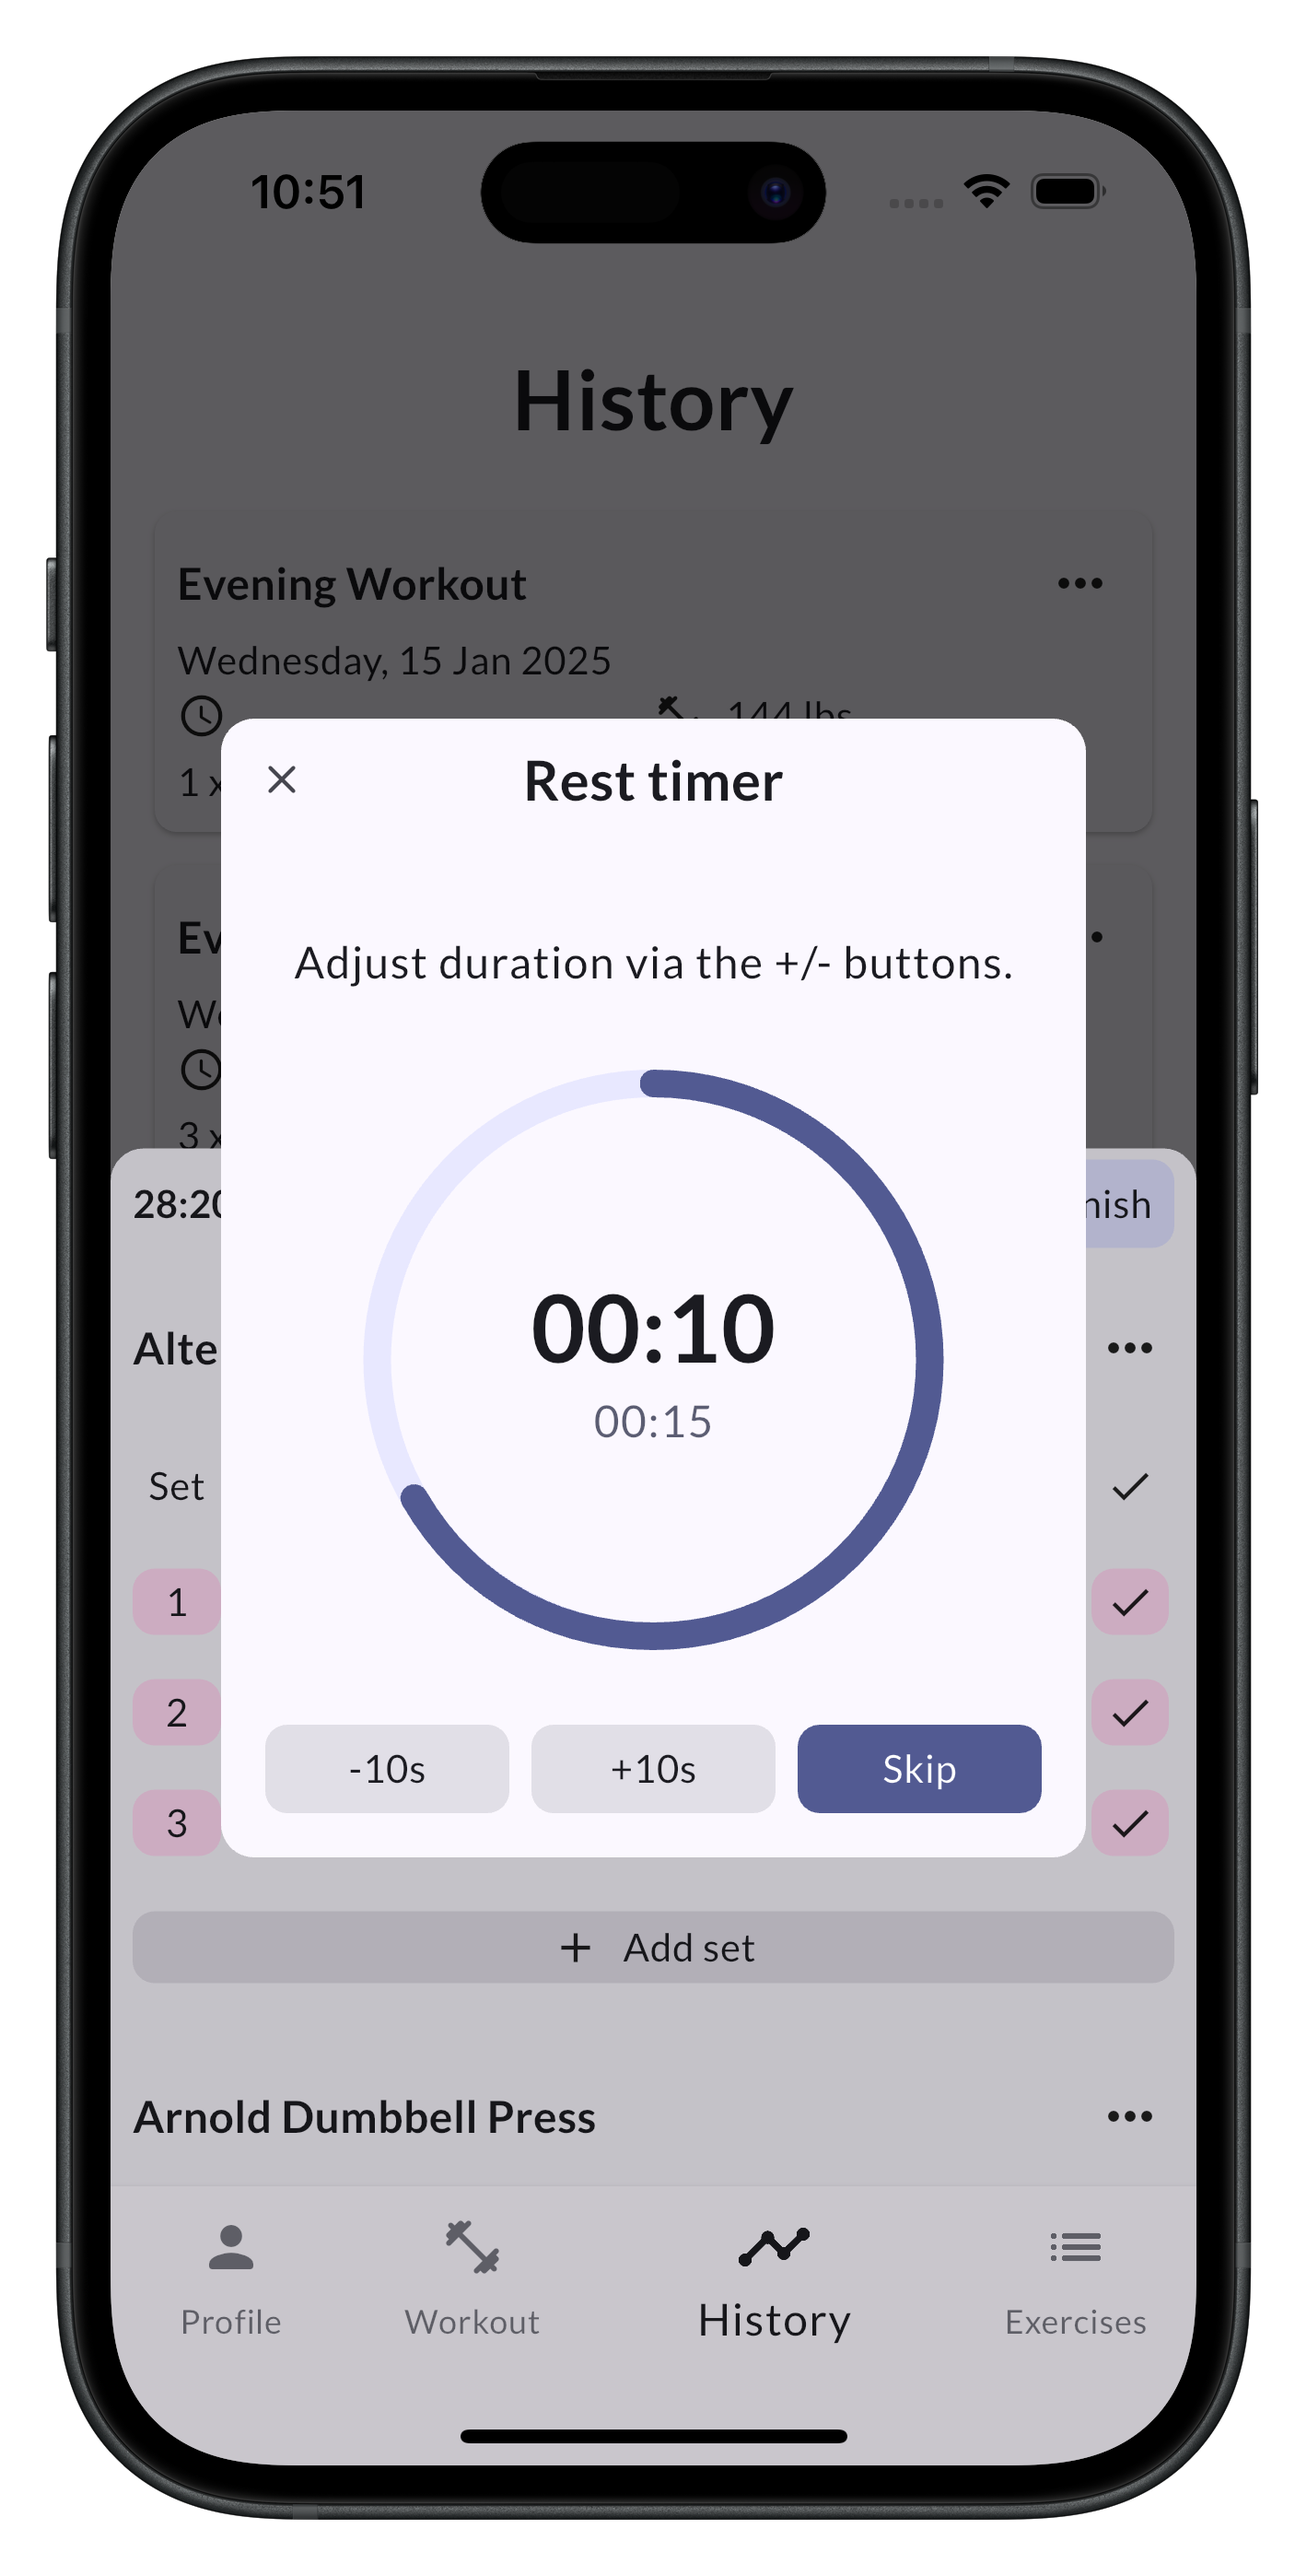
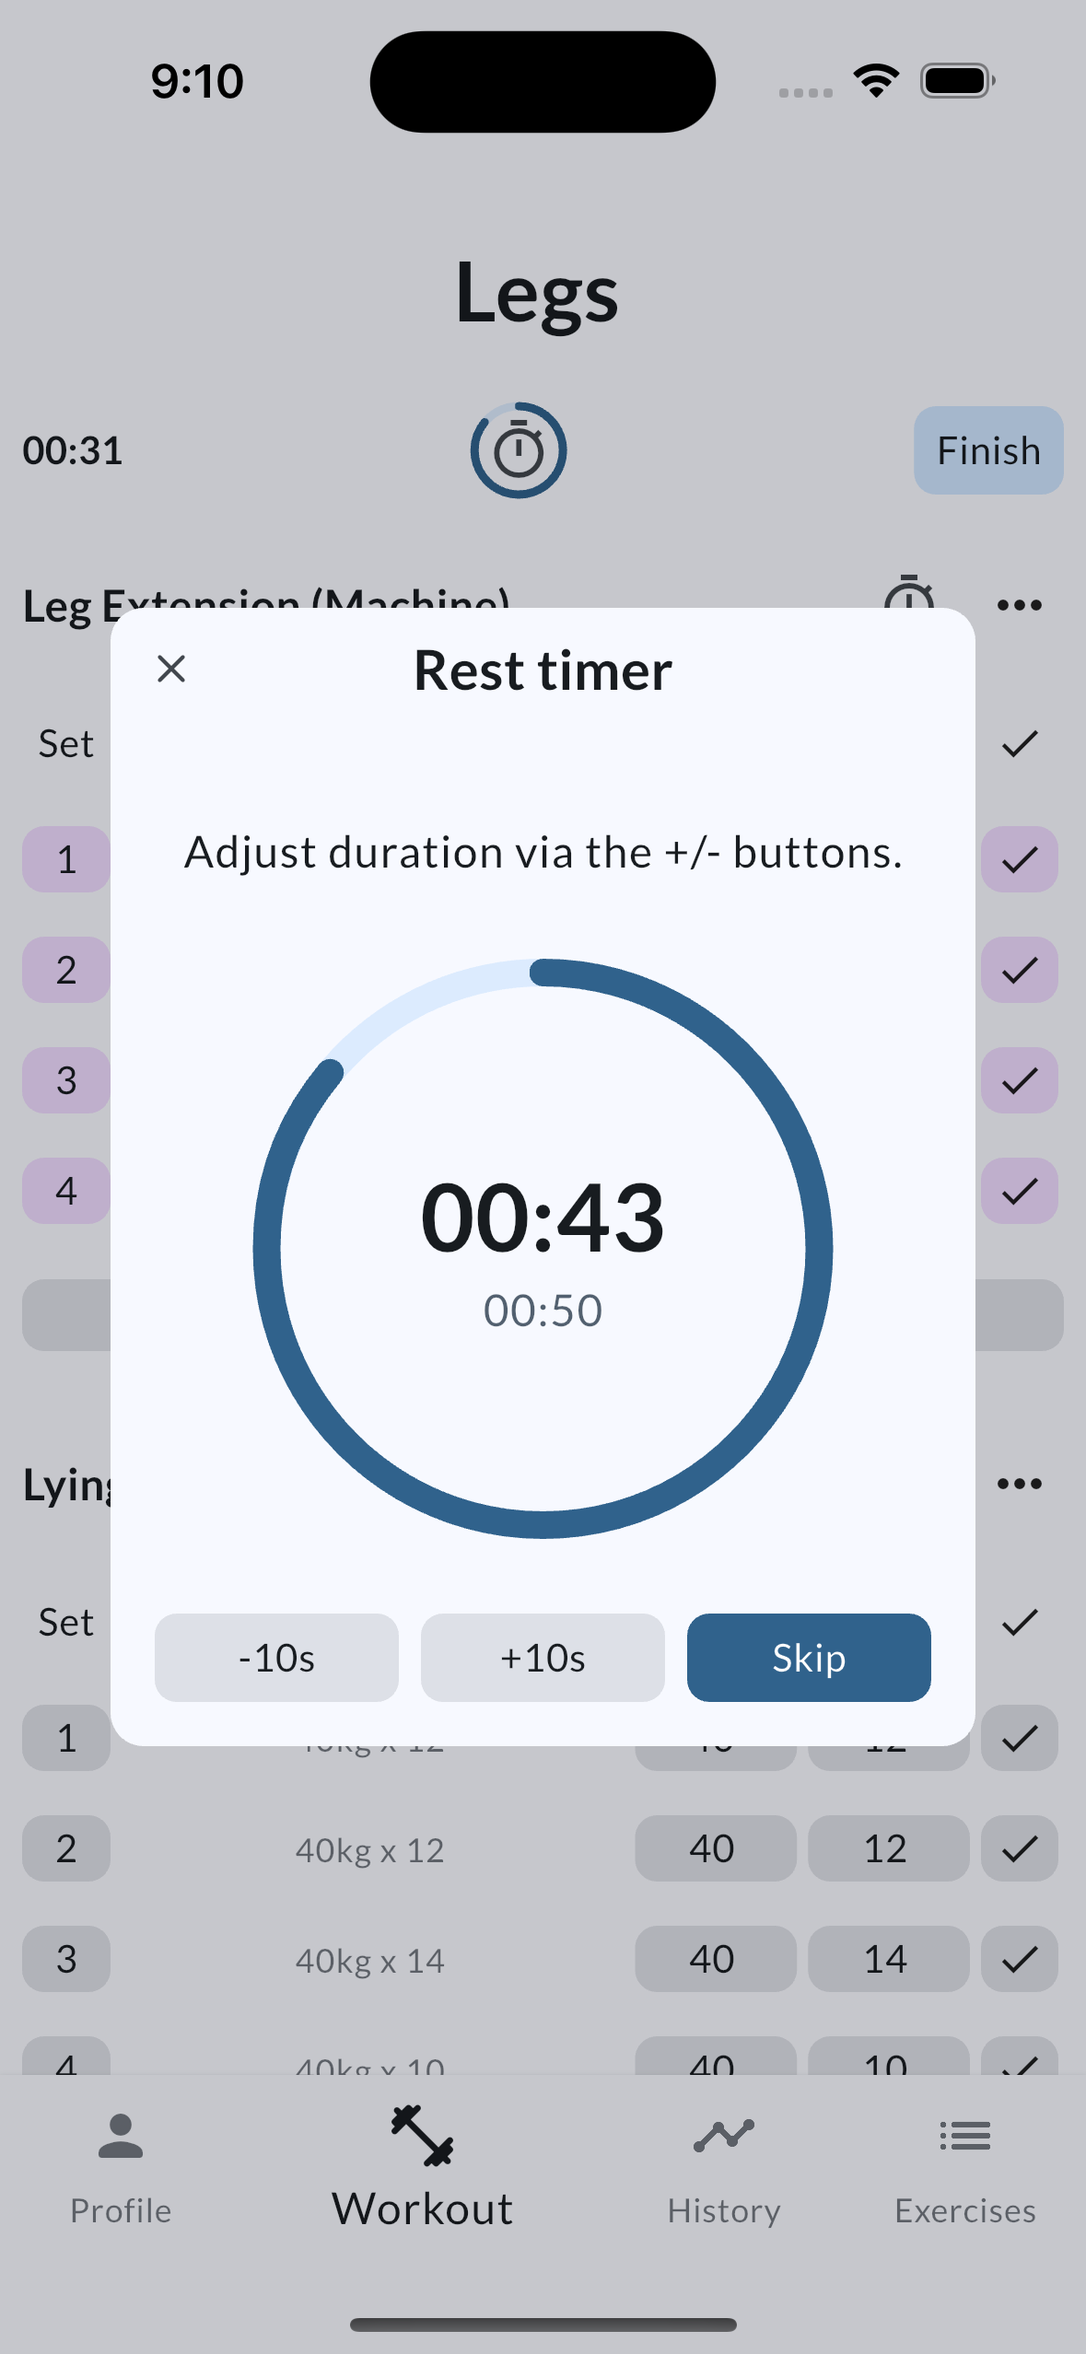
chore: fresher screenshots in README.md

diff --git a/README.md b/README.md
@@ -9,9 +9,9 @@ data. It is also a
 showcase of a real-live serverless Flutter project.
 
 <div style="display: flex; justify-content: space-around; align-items: center; gap: 10px;">
-  <img src="assets/screenshots/exercises.png" alt="Exercises" style="width: 30%;">
-  <img src="assets/screenshots/workout.png" alt="History" style="width: 30%;">
   <img src="assets/screenshots/timer.png" alt="Workout" style="width: 30%;">
+  <img src="assets/screenshots/charts.png" alt="Exercises" style="width: 30%;">
+  <img src="assets/screenshots/congrats.png" alt="History" style="width: 30%;">
 </div>
 
 ## Prerequisites
